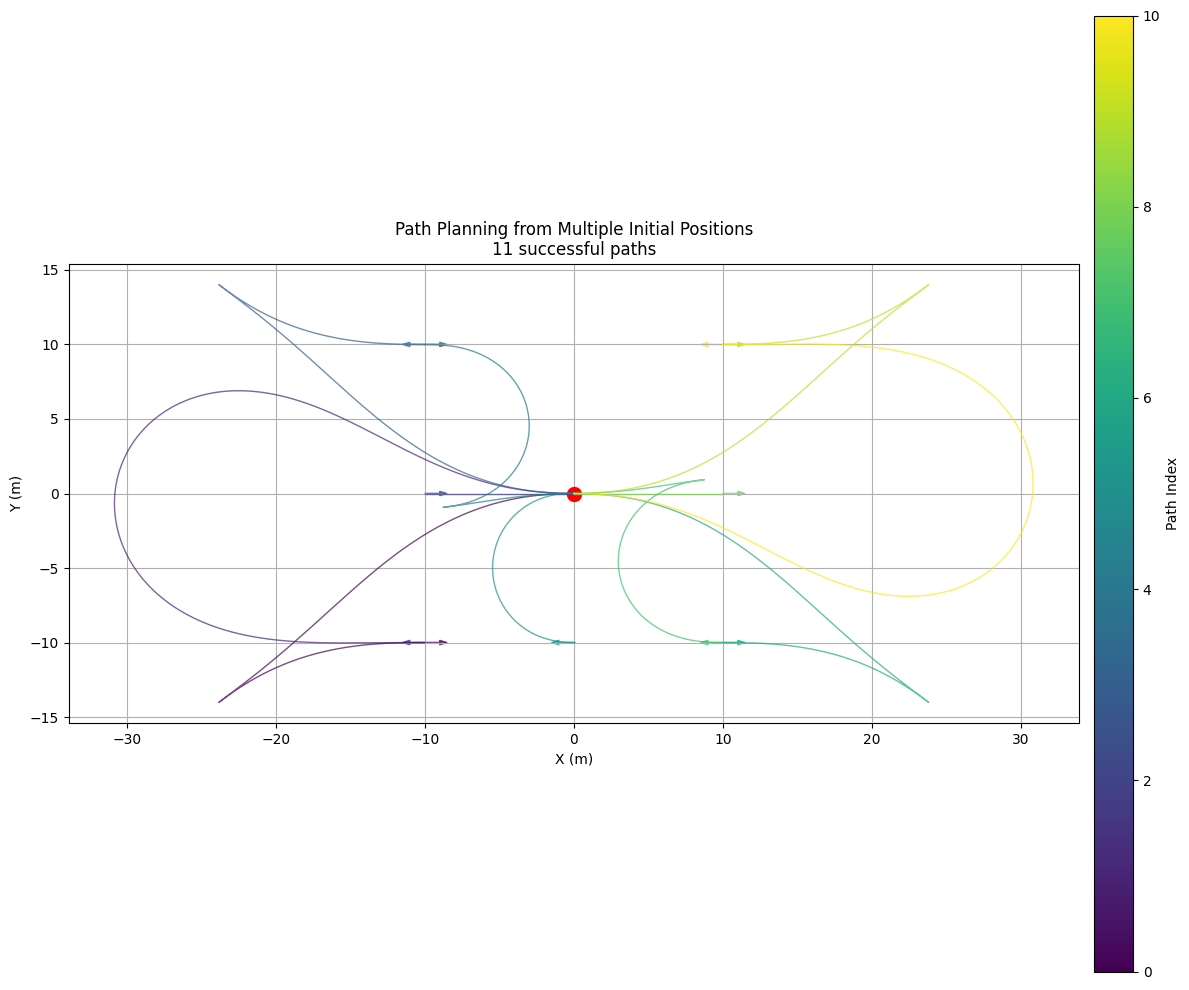
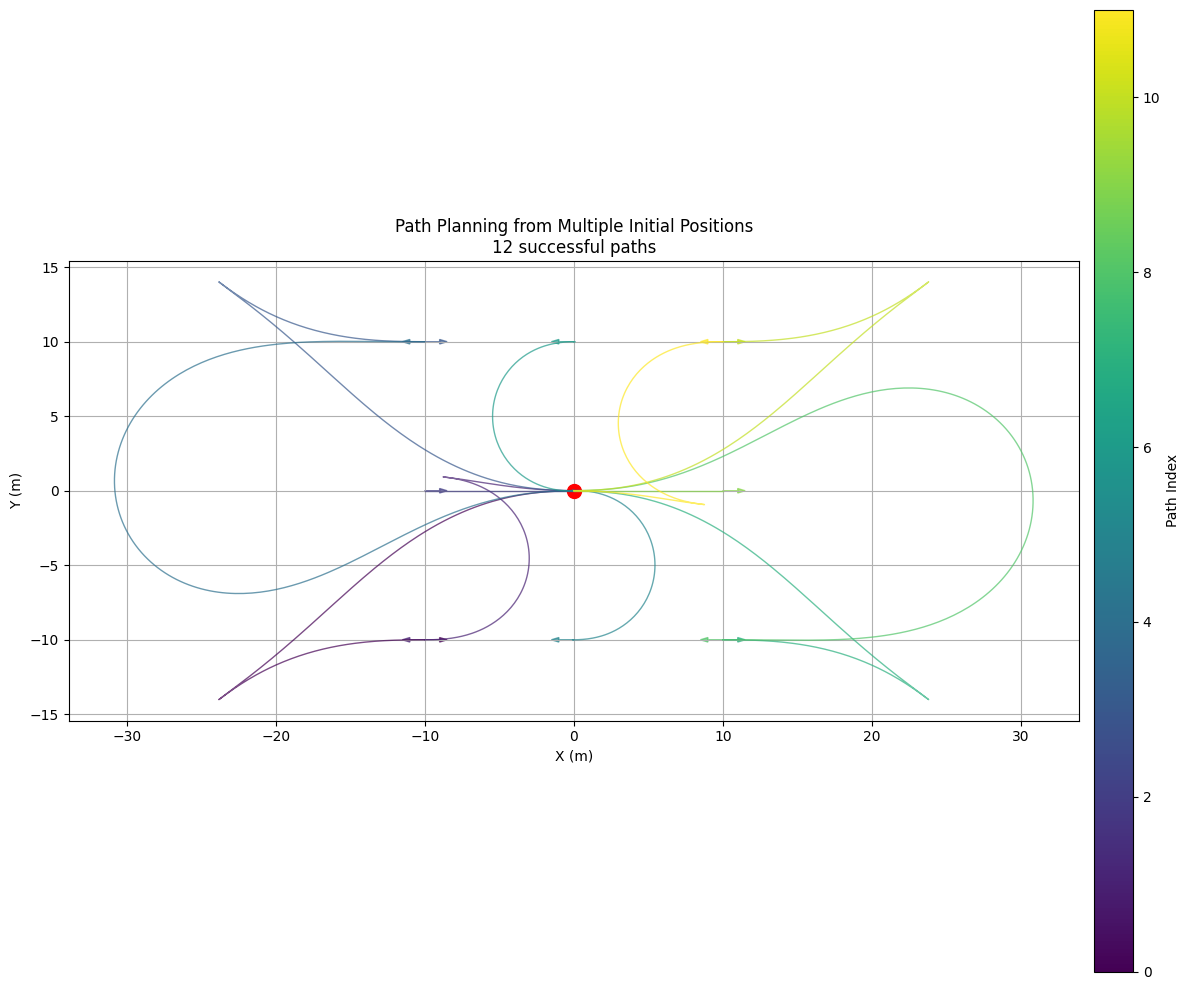
normalize_angle added, updated angle constraints

diff --git a/src/core_solver.py b/src/core_solver.py
@@ -22,8 +22,8 @@ class EgoConfig:
         self.steering_rate_min = -0.4
         
         # Start and goal states [x, y, theta, velocity, steering]
-        self.state_start = [0, 0, 0, 0, 0]
-        self.state_final = [20, 20, np.pi/2, 0, 0]
+        self._state_start = [0, 0, 0, 0, 0]
+        self._state_final = [20, 20, np.pi/2, 0, 0]
         
         # Cost function weights
         # Path cost weights
@@ -37,6 +37,55 @@ class EgoConfig:
         self.weight_terminal_heading = 100.0
         self.weight_terminal_velocity = 10.0
         self.weight_terminal_steering = 10.0
+    
+    @staticmethod
+    def normalize_angle(angle):
+        """
+        Normalize angle to be within [-π, π]
+        """
+        return ((angle + np.pi) % (2 * np.pi)) - np.pi
+    
+    @property
+    def state_start(self):
+        return self._state_start
+    
+    @state_start.setter
+    def state_start(self, state):
+        """
+        Set the start state with angle normalization.
+        Ensures the heading angle (theta) is normalized to [-π, π].
+        """
+        if len(state) != 5:
+            raise ValueError("State must have 5 elements: [x, y, theta, velocity, steering]")
+        
+        # Create a copy of the state to avoid modifying the input
+        normalized_state = state.copy()
+        
+        # Normalize the heading angle (index 2)
+        normalized_state[2] = self.normalize_angle(state[2])
+        
+        self._state_start = normalized_state
+    
+    @property
+    def state_final(self):
+        return self._state_final
+    
+    @state_final.setter
+    def state_final(self, state):
+        """
+        Set the final state with angle normalization.
+        Ensures the heading angle (theta) is normalized to [-π, π].
+        """
+        if len(state) != 5:
+            raise ValueError("State must have 5 elements: [x, y, theta, velocity, steering]")
+        
+        # Create a copy of the state to avoid modifying the input
+        normalized_state = state.copy()
+        
+        # Normalize the heading angle (index 2)
+        normalized_state[2] = self.normalize_angle(state[2])
+        
+        self._state_final = normalized_state
 
 class SimConfig:
     def __init__(self):
@@ -245,8 +294,8 @@ def generate_controls(ego, sim_cfg):
     # State constraints - relaxed bounds for better convergence
     x_max = 100.0
     y_max = 100.0
-    ocp.constraints.lbx = np.array([-x_max, -y_max, -2*np.pi, ego.velocity_min, ego.steering_min])  # Use ego velocity limits
-    ocp.constraints.ubx = np.array([x_max, y_max, 2*np.pi, ego.velocity_max, ego.steering_max])  # Use ego velocity limits
+    ocp.constraints.lbx = np.array([-x_max, -y_max, -4*np.pi, ego.velocity_min, ego.steering_min])  # Use ego velocity limits
+    ocp.constraints.ubx = np.array([x_max, y_max, 4*np.pi, ego.velocity_max, ego.steering_max])  # Use ego velocity limits
     ocp.constraints.idxbx = np.array(range(nx))
     
     # Initial state constraint
@@ -286,15 +335,21 @@ def generate_controls(ego, sim_cfg):
         # Calculate longitudinal error to determine velocity direction
         x_bar = ego.state_start[0] - ego.state_final[0]
         y_bar = ego.state_start[1] - ego.state_final[1]
-        longitudinal_err = -y_bar * sin(ego.state_final[2]) - x_bar * cos(ego.state_final[2])
+        theta_bar = ego.state_start[2] - ego.state_final[2]
+        lat_err = +y_bar * cos(ego.state_final[2]) - x_bar * sin(ego.state_final[2])
+        lng_err = -y_bar * sin(ego.state_final[2]) - x_bar * cos(ego.state_final[2])
         
         # Set velocity initialization based on longitudinal error
-        if longitudinal_err < 0.2:
-            v_init = -1.0  # Negative velocity when approaching target from behind
-        else:
-            v_init = 1.0  # Positive velocity when approaching target from front
-            
+        # if i < 1:
+        #     if lng_err < 0.2:
+        #         v_init = -1.0 if lat_err < 0  else 1.0
+        #     else:
+        #         v_init = 1.0  # Positive velocity when approaching target from front
+        # else:
+        #     v_init = 1.0  # Positive velocity when approaching target from front
+        v_init = -1.0 if lng_err < 0.2 else 1.0
         steering_init = 0.0
+        # print(f"v_init: {v_init} , lat_err: {lat_err} , steering_init: {steering_init}, cos_hb: {cos(theta_bar)}, lng_err: {lng_err}")
         acados_solver.set(i, "x", np.array([x_init, y_init, theta_init, v_init, steering_init]))
     
     # Solve OCP

diff --git a/src/path_finder.py b/src/path_finder.py
@@ -106,8 +106,10 @@ def clean_acados_files():
 if __name__ == "__main__":
     # Example usage
     ego = EgoConfig()
-    ego.state_start = [-20, 0, 0, 0, 0]
-    ego.state_final = [0,   0, 0, 0, 0]
+    # Now we can directly set angles without explicit normalization
+    # The EgoConfig class will handle normalization internally
+    ego.state_start = [10, 10, 0*np.pi, 0, 0]  # 2π will be normalized to 0
+    ego.state_final = [0, 0, 0, 0, 0]
     
     # Clean up any existing Acados files
     clean_acados_files()
@@ -118,7 +120,7 @@ if __name__ == "__main__":
     duration = calculate_path_duration(start_pos, end_pos, ego.velocity_max)
     
     print("Running path planning silently...")
-    results = find_path(ego, duration=duration, dt=0.1, verbose=True)
+    results = find_path(ego, duration=3*duration, dt=0.1, verbose=True)
     print("Path planning completed.")
     
     # Import plot_results only if needed
